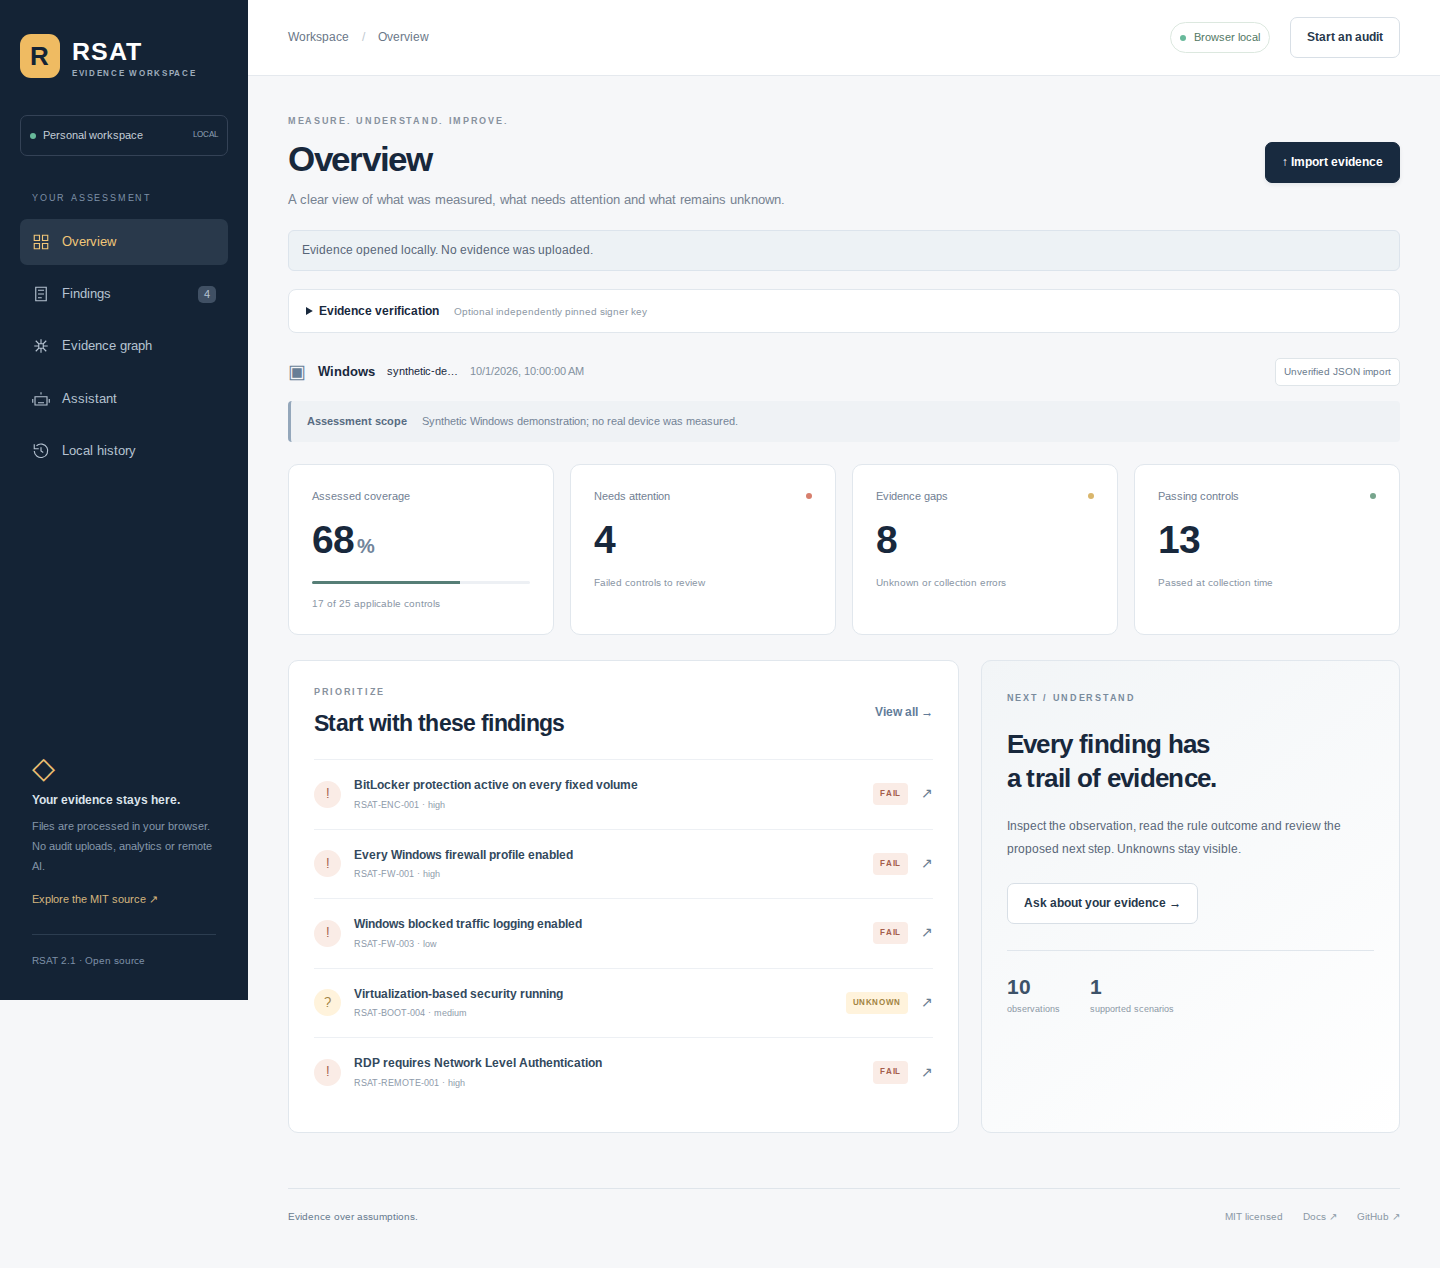
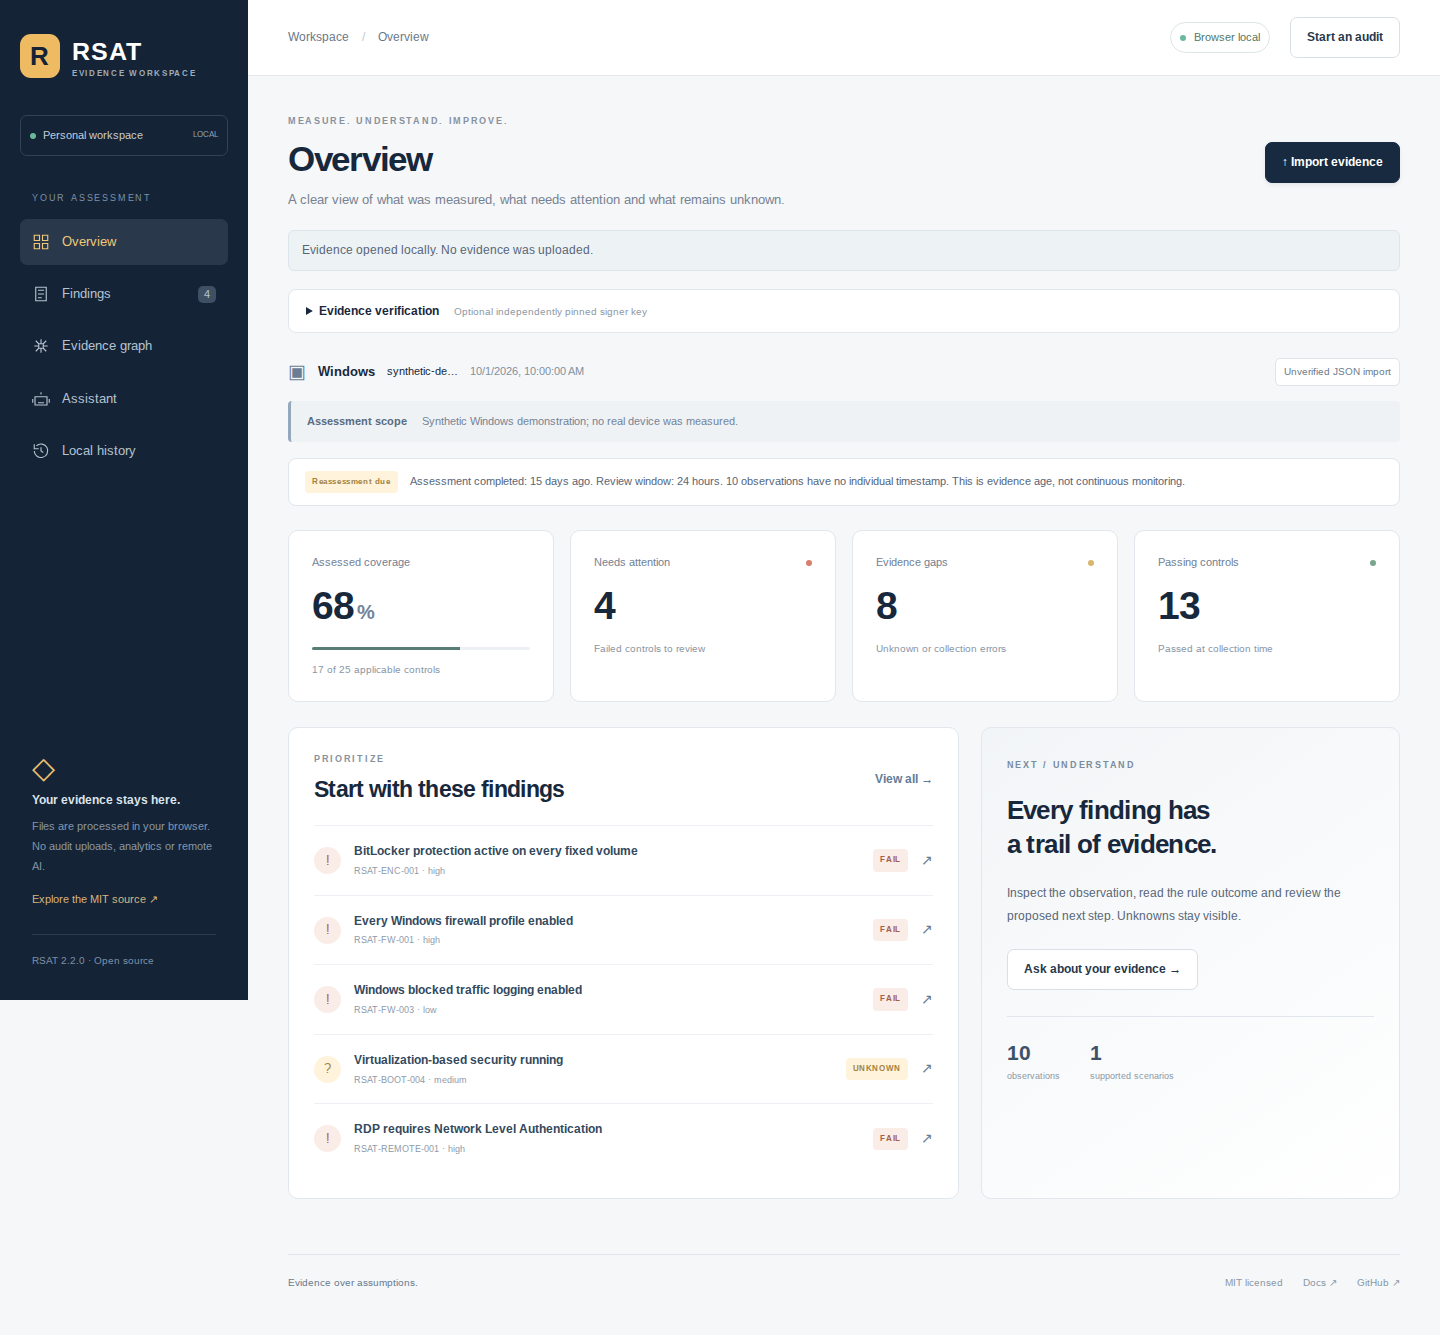
Document verified 2.2 release and update workspace previews [skip ci]

diff --git a/docs/validation.md b/docs/validation.md
@@ -6,6 +6,7 @@ RSAT validates evidence interpretation, cryptographic boundaries, native executi
 
 | Scope | Verified result | Evidence |
 |---|---|---|
+| Release 2.2.0 | Eight platform/Python jobs, 13 workspace module tests, both browser suites, four native builds and publication passed | [Release run 38980473315](https://github.com/Kajahkura/RSAT_Project/actions/runs/38980473315) |
 | Release 2.1.0 | Eight platform/Python jobs, both browser jobs, four native builds and publication passed | [Release run 38075110752](https://github.com/Kajahkura/RSAT_Project/actions/runs/38075110752) |
 | Source revision `ac3d64f` | Eight platform/Python jobs, both browser jobs and four native builds passed | [Run 38968086839](https://github.com/Kajahkura/RSAT_Project/actions/runs/38968086839) |
 | Hosted browser workspace | Public release files and live HTTPS security flows passed | [Run 38968086856](https://github.com/Kajahkura/RSAT_Project/actions/runs/38968086856) |
@@ -31,6 +32,8 @@ The Linux executable is built on Ubuntu 22.04 for a glibc 2.35 baseline. Older g
 Build provenance is distinct from Windows Authenticode and macOS notarization. The repository does not configure OS signing certificates. Hosted runners do not provide complete physical-device validation of BitLocker, TPM, Secure Boot, MDM, FileVault or successful backup restoration. WSL/container observations apply to the guest scope.
 
 ## Browser workspace
+
+Workspace module tests cover same-device comparisons, policy/scope changes, observation freshness, strict decision bindings and dates, selected exports, CSV formula protection, public-key fingerprints and redaction against hostile imported prose. Browser workflows also verify note preservation, encrypted decision/label storage, device grouping, downloadable report rendering and legacy snapshot restoration.
 
 Browser checks exercise operating-system onboarding, bounded local JSON/ZIP imports, malformed input rejection, independently pinned Ed25519 signatures, wrong-key rejection, HTML injection resistance, encrypted IndexedDB storage, wrong-passphrase rejection, successful restoration with signer trust cleared, local deletion, assistance while the browser network is offline, desktop/mobile layouts and no evidence uploads.
 
